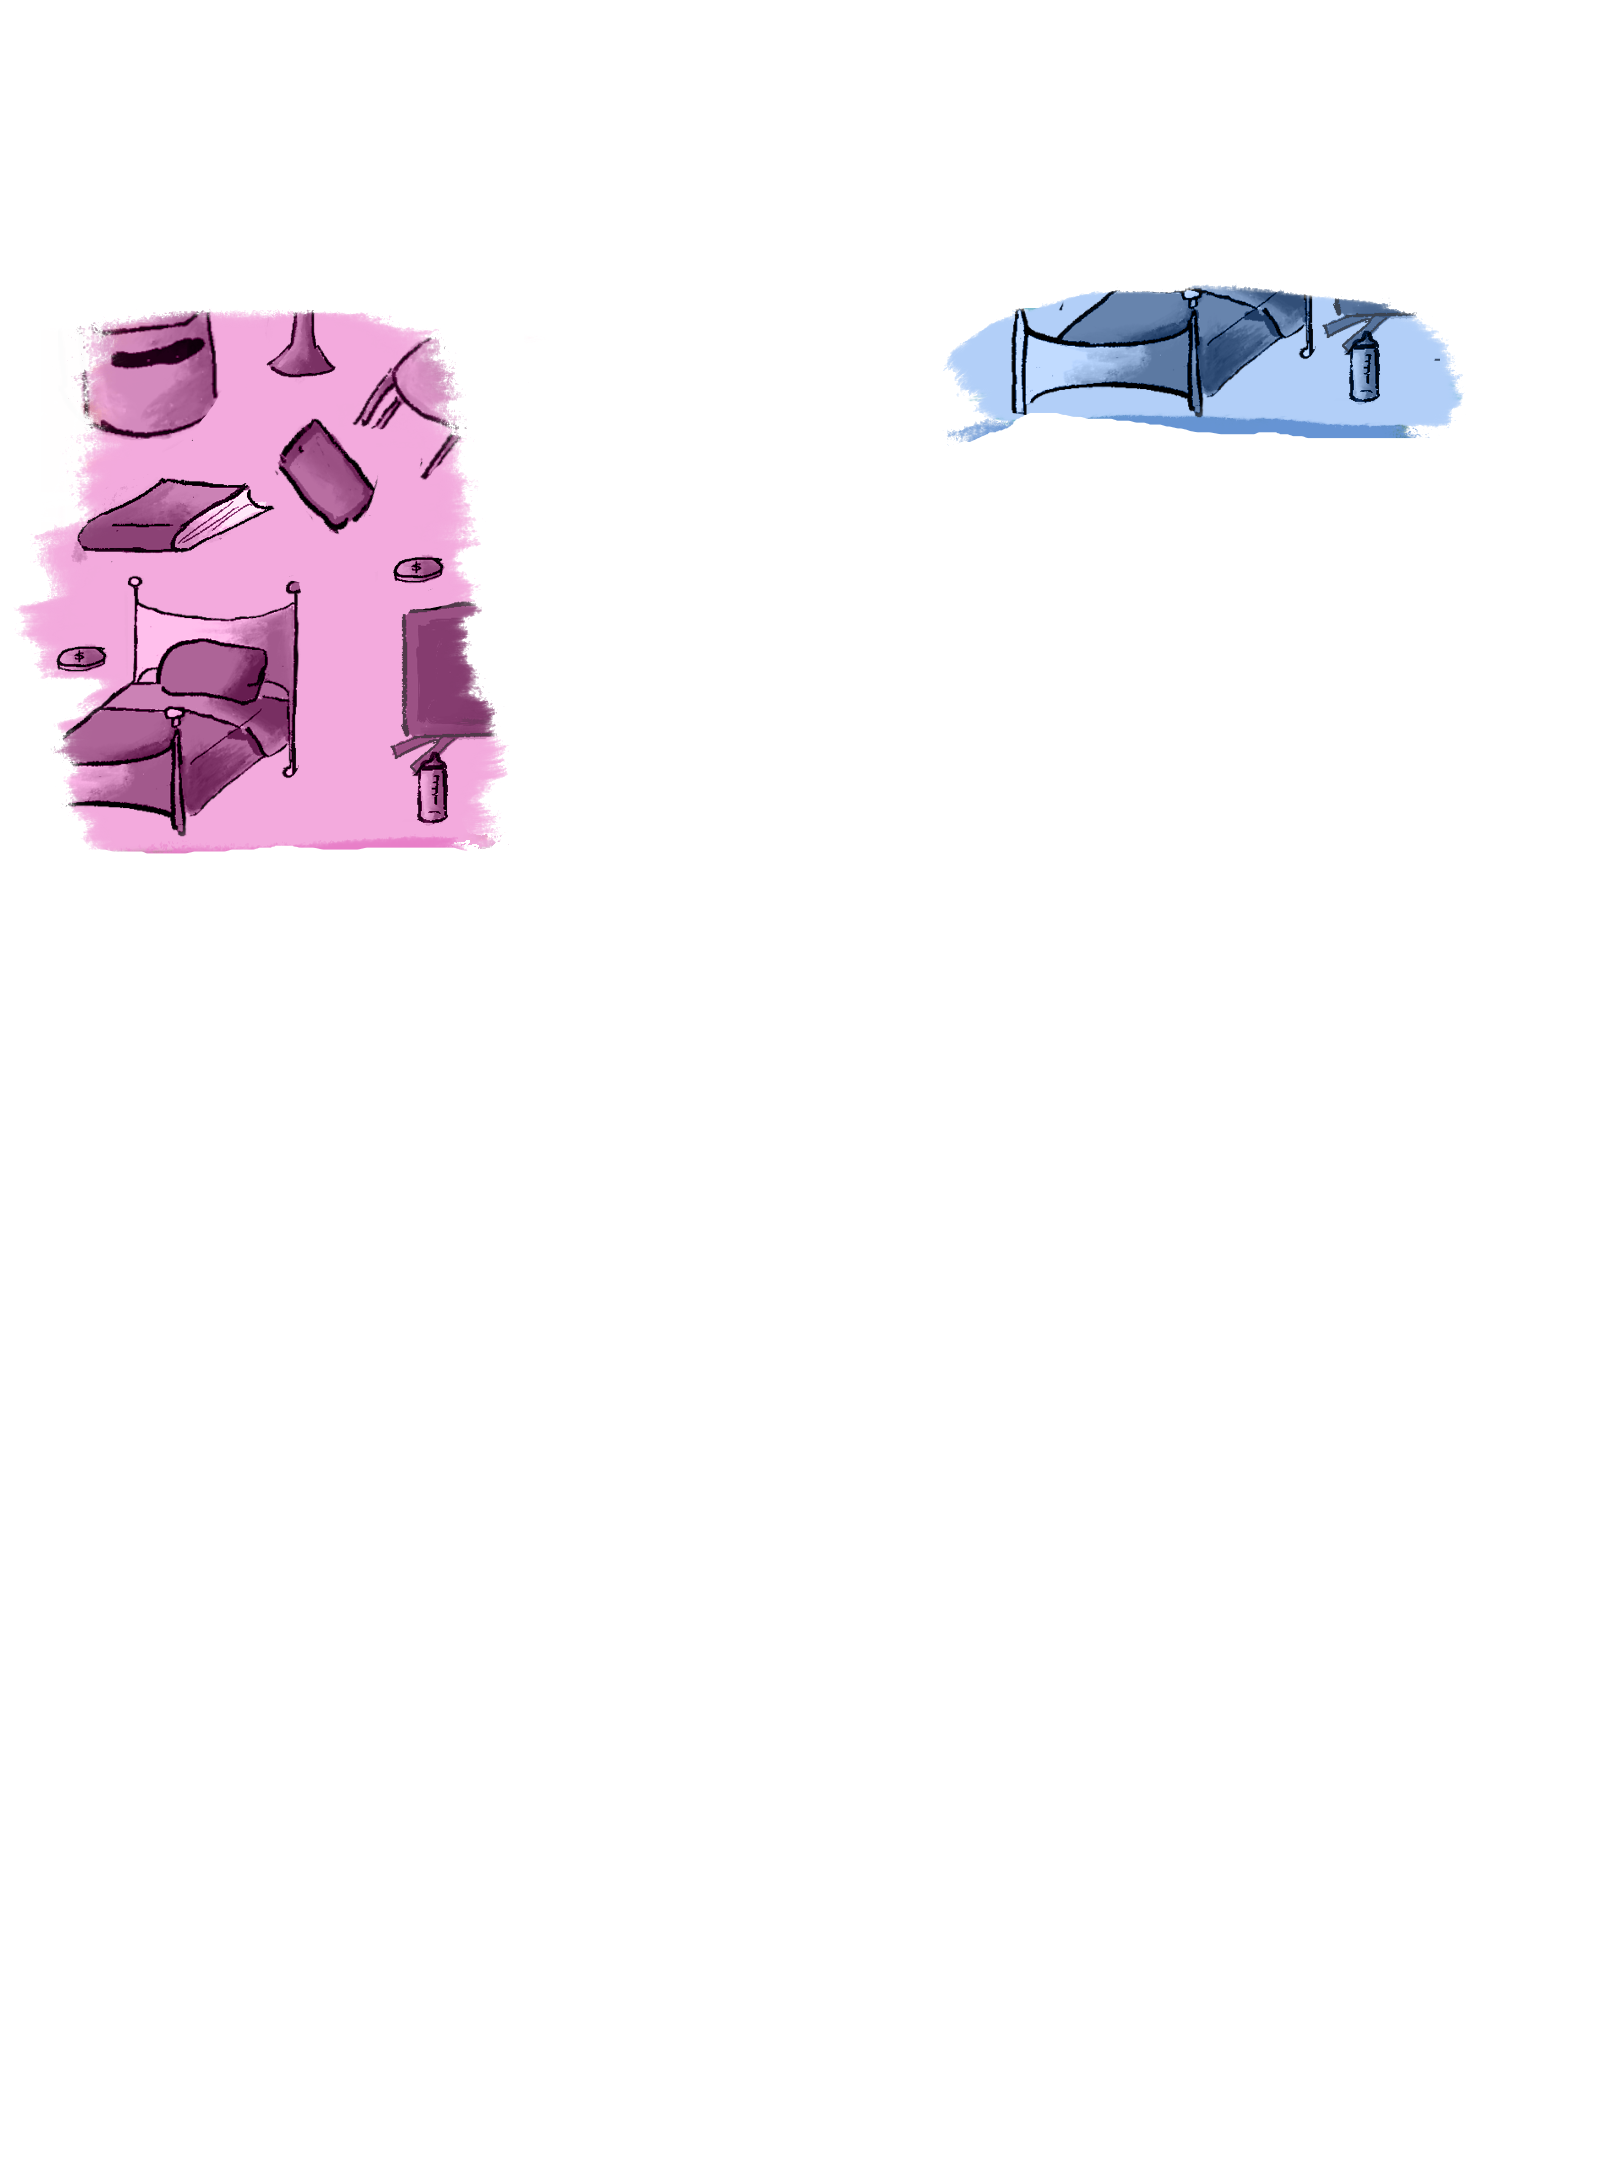
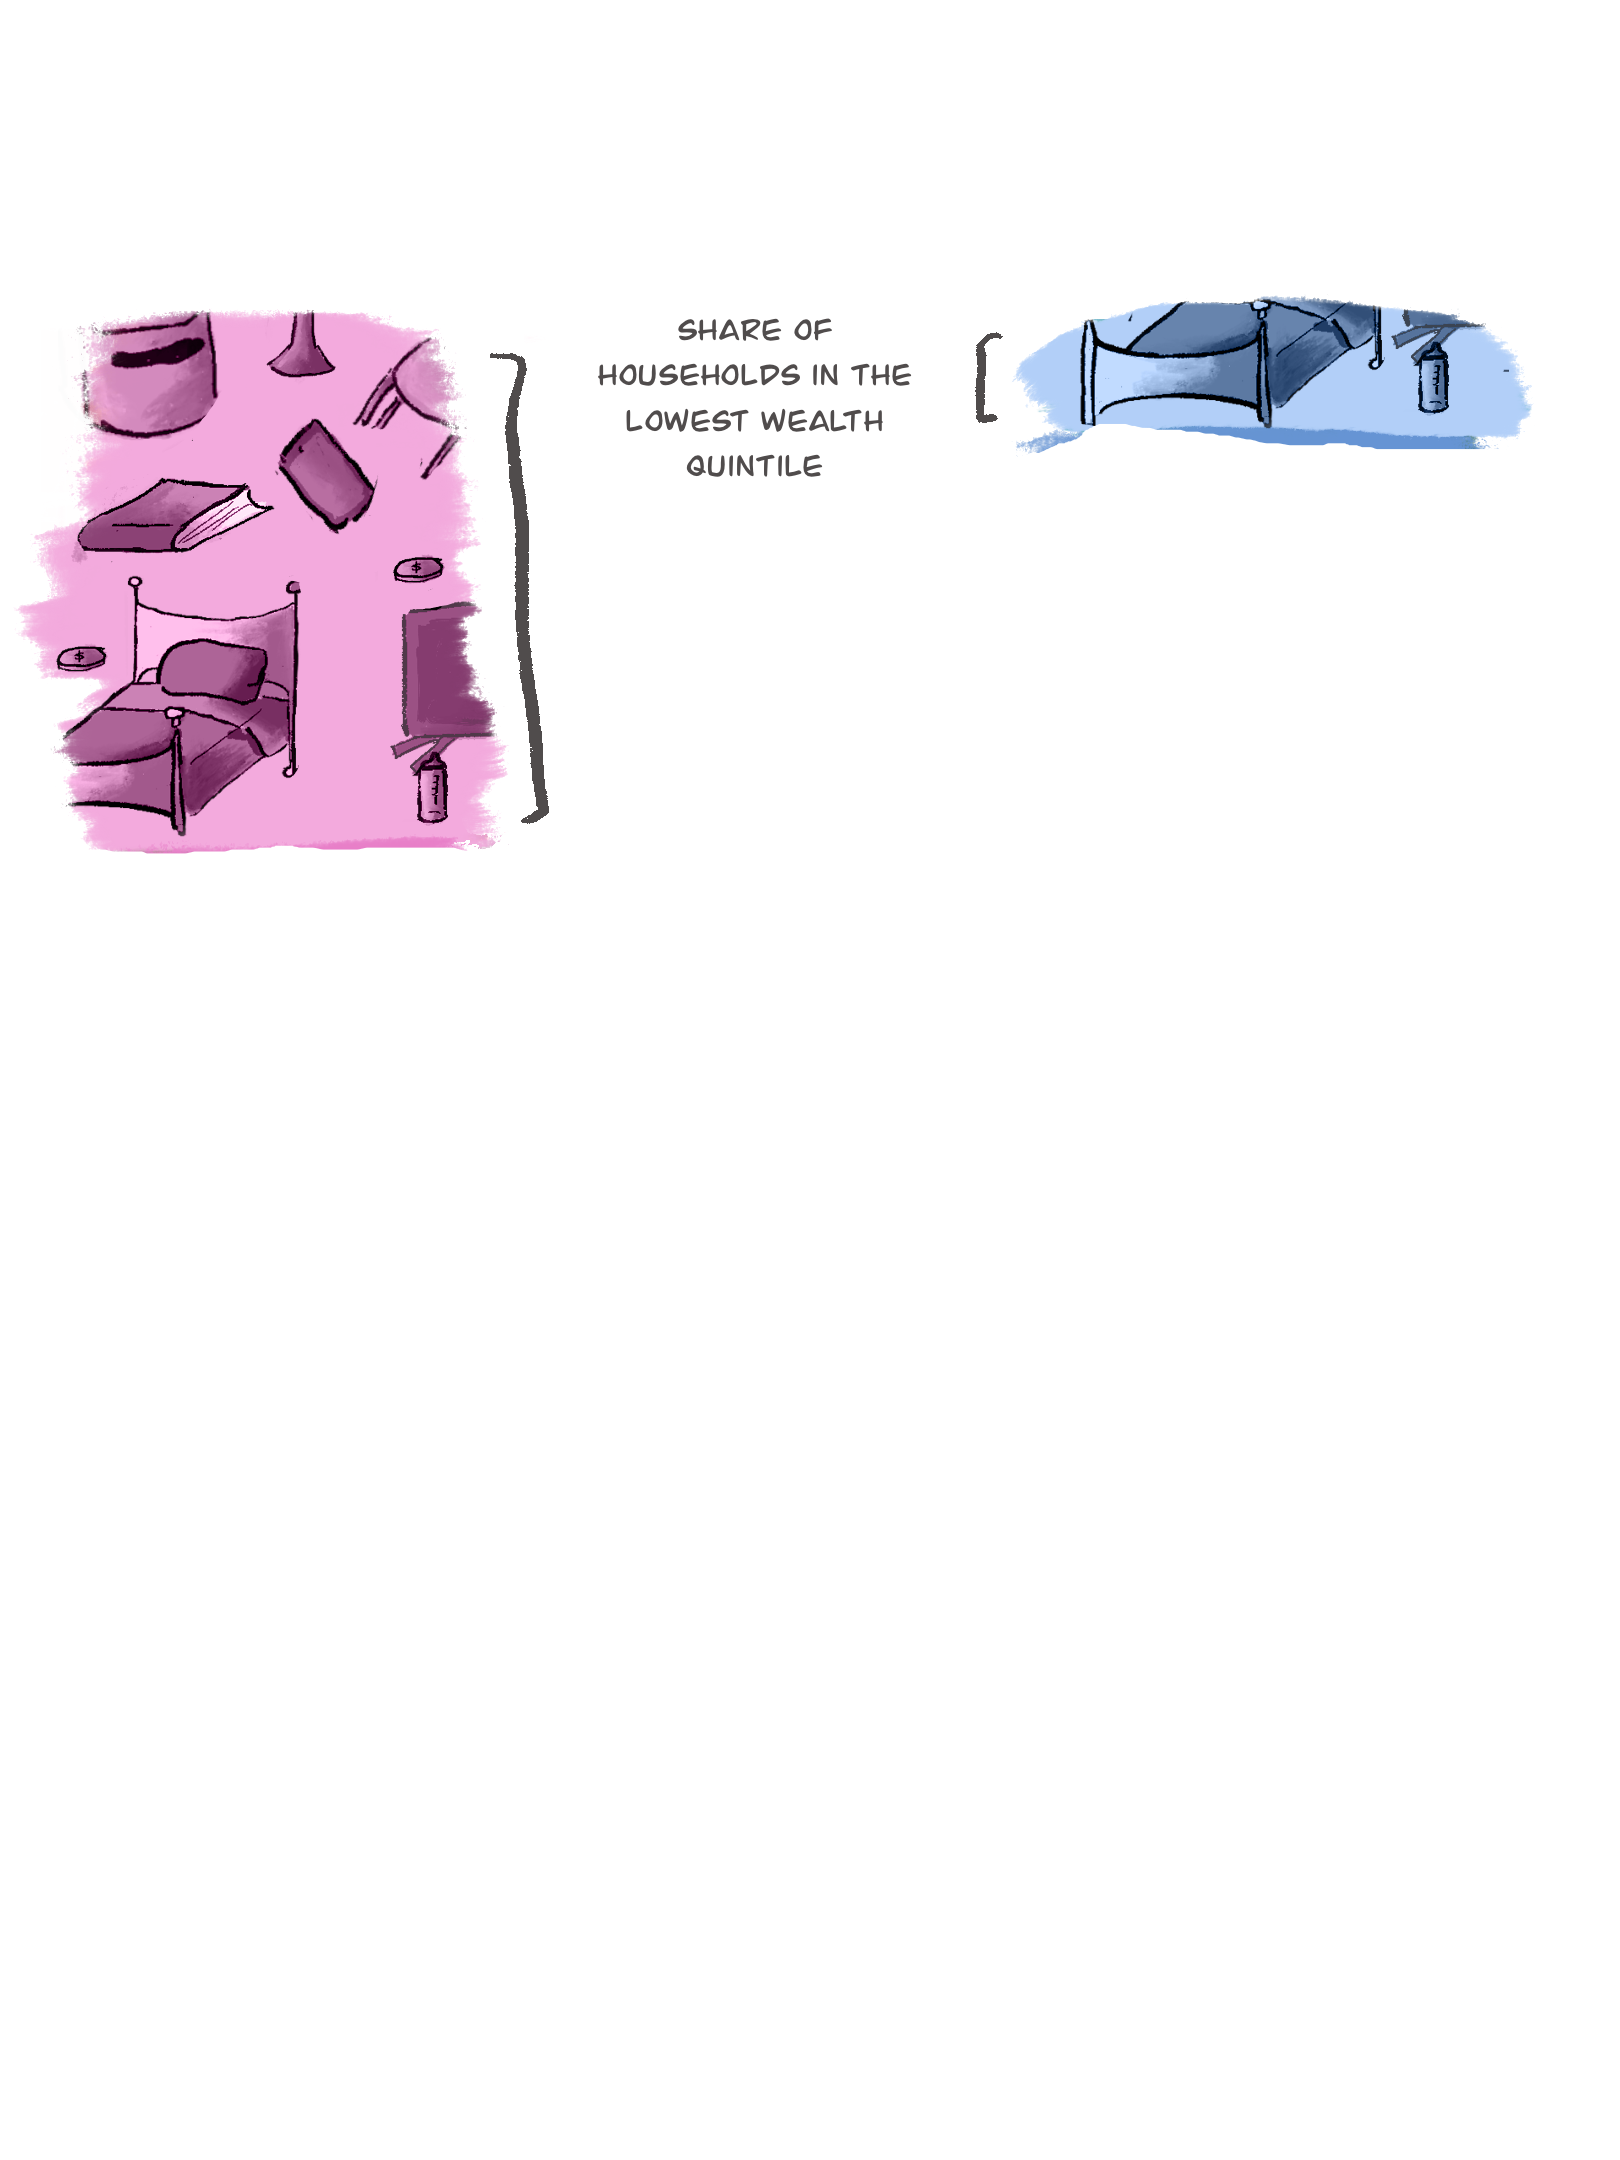
[main] edits

Changed region(s): [[0.5864, 0.1241, 0.9568, 0.2171], [0.3704, 0.1241, 0.5556, 0.2171], [0.3086, 0.1551, 0.3395, 0.3722]]

diff --git a/99_webpage/index.html b/99_webpage/index.html
@@ -25,7 +25,7 @@
 <div class="container">
 <!--First One-->
 <div class="divider-block" id="one">
-  <h4>A slum household is defined as a group of individuals living under the same roof lacking one or more of the following conditions:</h4>
+  <h4>A slum household lacks at least one of the following conditions:</h4>
 </div>  
 <div class="scrollytelling-container">
       <div class="partone">
@@ -39,7 +39,7 @@
             <img src="./slum_definition/space.png" alt="Dummy Image 2">
             <p>1. Sufficient <b>Living Area</b></p>
             <div id="subtitle">
-            <p> (no more than three people sharing a room)</p>
+            <p> (40 percent of households in India have more than three people sharing a room)</p>
             </div>
         </section>
 
@@ -47,7 +47,7 @@
             <img src="./slum_definition/sanitation.png" alt="Dummy Image 3">
             <p>2. Access to <b>Improved Water and Sanitation</b></p>
             <div id="subtitle">
-            <p>(water that is sufficient, affordable, and can be obtained without extreme effort, <br>and a private toilet, or a public one shared with a reasonable number of people)</p>
+            <p>(22 percent don't have access to water that is sufficient, affordable, and can be obtained without extreme effort, <br>and a private toilet, or a public one shared with a reasonable number of people)</p>
             </div>
         </section>
 
@@ -55,7 +55,7 @@
           <img src="./slum_definition/structure.png" alt="Dummy Image 4">
           <p>3. Housing <b>Durability</b></p>
           <div id="subtitle">
-          <p>(a permanent structure providing protection from extreme climatic conditions)</p>
+          <p>(40 percent don't have a permanent structure providing protection from extreme climatic conditions)</p>
           </div>
         </section>
 
@@ -63,7 +63,7 @@
         <img src="./slum_definition/security.png" alt="Dummy Image 5">
         <p>4. <b>Security</b> of Tenure</p>
         <div id="subtitle">
-        <p>(de facto or de jure secure tenure status and protection against forced eviction)</p>
+        <p>(Not all households are guaranteed secure tenure status and protection against forced eviction)</p>
       </div>
     </section>
 
@@ -79,7 +79,7 @@
 <!--Start of Second One-->
 <div class="container2">
 <div class="divider-block" id="two">
-    <h4>Wealth disparities are wide</h4>
+    <h4>The Learning Crisis is Visible</h4>
 </div>
 
 <!--BUFFER-->
@@ -88,7 +88,7 @@
 </div>
 <!--BUFFER-->
 
-<!--Second One-->
+<!--Second one-->
 <div class="scrollytelling-container">
   <div class="parttwo">
     <section id="section1" class="story-section">
@@ -101,13 +101,13 @@
       <img src="./quintile breakdown/00bar.png" alt="Dummy Image 2">
     </section>
       <section id="section3" class="story-section">
-        <p>Slum households are six times more likely than non-slum households to at the bottom wealth </p>
+        <p>30 percent of slum households are in the bottom wealth quintile compared to 5 percent of non-slum households. </p>
         <img src="./quintile breakdown/01_q1.png" alt="Dummy Image 3">
       </section>
       <section id="section4" class="story-section">
-        <p>Non-slum households are much more likely to be among the wealthiest families on the other hand</p>
+        <p>While 58 percent of non-slum households are among the wealthiest families, compared to just 15 percent of slum households.</p>
         <img src="./quintile breakdown/02_q4.png" alt="Dummy Image 3">
-    
+     
       </section>
     <section id="section5" class="story-section">
       <p></p>
@@ -133,7 +133,7 @@
 </div>
 <!--Third One (DROPOUT)-->
 <div class="divider-block" id="three">
-  <h4>Children who live in slums are both more likely to have lower initial enrollment and higher dropout before they finish primary school</h4>
+  <h4>Children from slums have lower enrollment and higher dropout before they finish primary school</h4>
 
 </div>
 <div class="image-swipe-container">
@@ -155,7 +155,7 @@
 <!--Fifth One-->
 <div class="container3">
 <div class="divider-block" id="five">
-  <h4>Astitva’s 3 pronged approach aims to reimagine slums as safe learning spaces:</h4>
+  <h4>Astytva builds safe learning spaces in slums to address these inequalities:</h4>
 </div>
 
 <!--BUFFER-->
@@ -170,13 +170,16 @@
 <div class="scrollytelling-container">
   <div class="partthree">
     <section id="section1" class="story-section">
-      <img src="./pillars/child.png" alt="Dummy Image 2">
+      <a href="https://www.astytva.com/alc">
+      <img src="./pillars/child.png" alt="Dummy Image 2"></a>
     </section>
     <section id="section2" class="story-section">
-      <img src="./pillars/women.png" alt="Dummy Image 3">
+      <a href="https://www.astytva.com/astitva-women">
+      <img src="./pillars/women.png" alt="Dummy Image 3"></a>
     </section>
   <section id="section3" class="story-section">
-    <img src="./pillars/community.png" alt="Dummy Image 3">
+    <a href="https://www.astytva.com/api">
+    <img src="./pillars/community.png" alt="Dummy Image 3"></a>
   </section>
   </div>
 </div>
